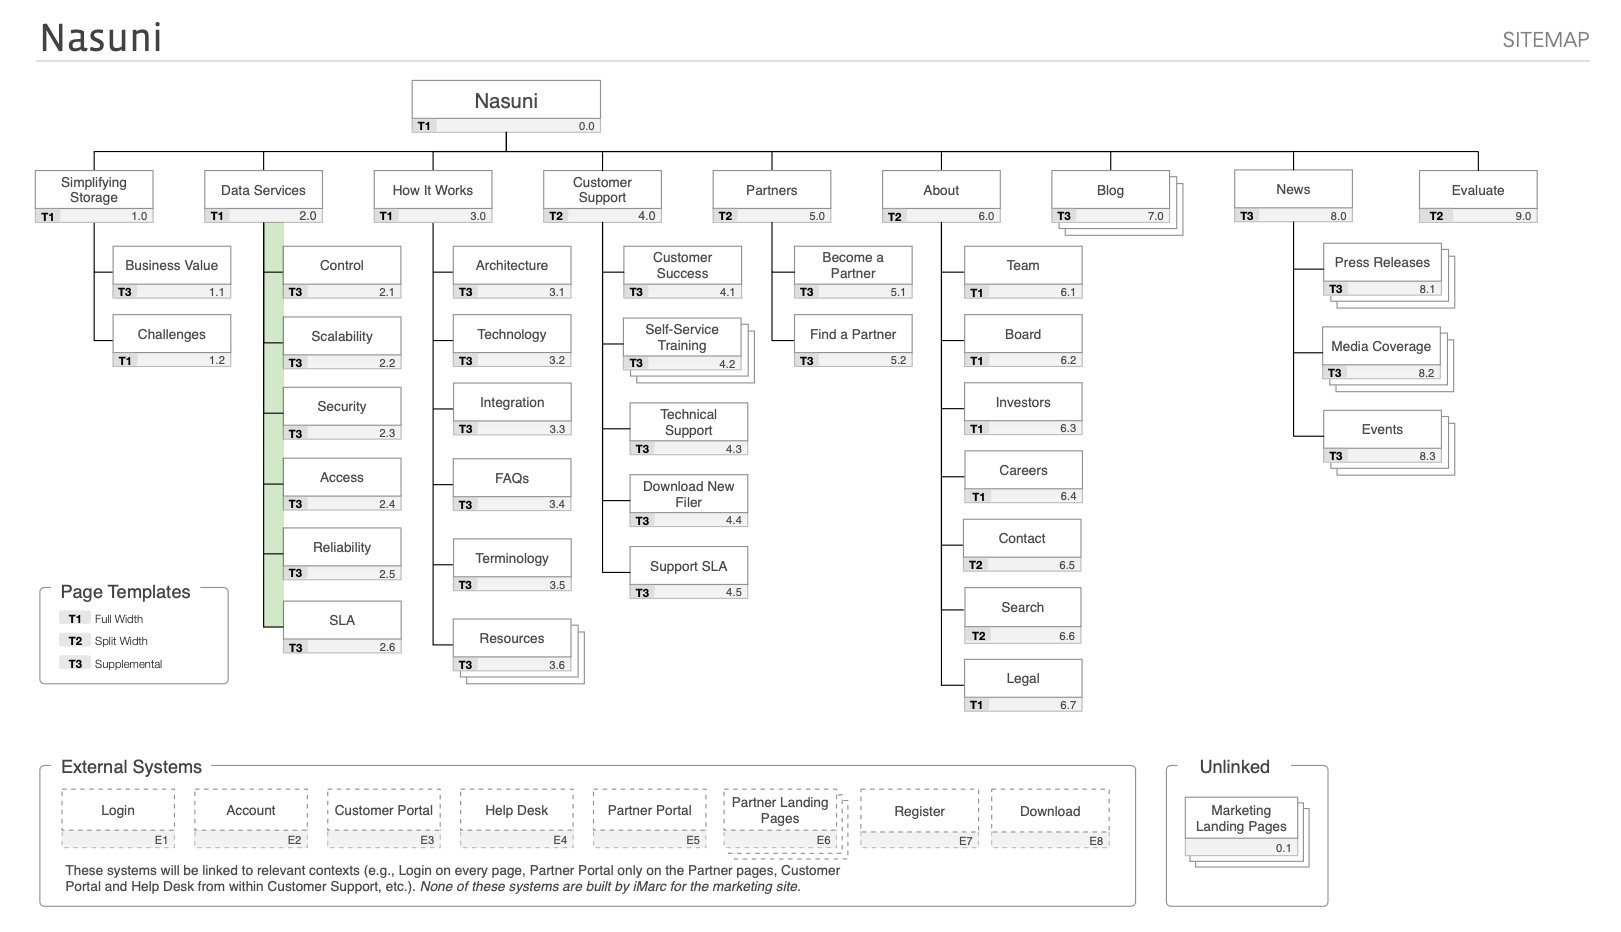
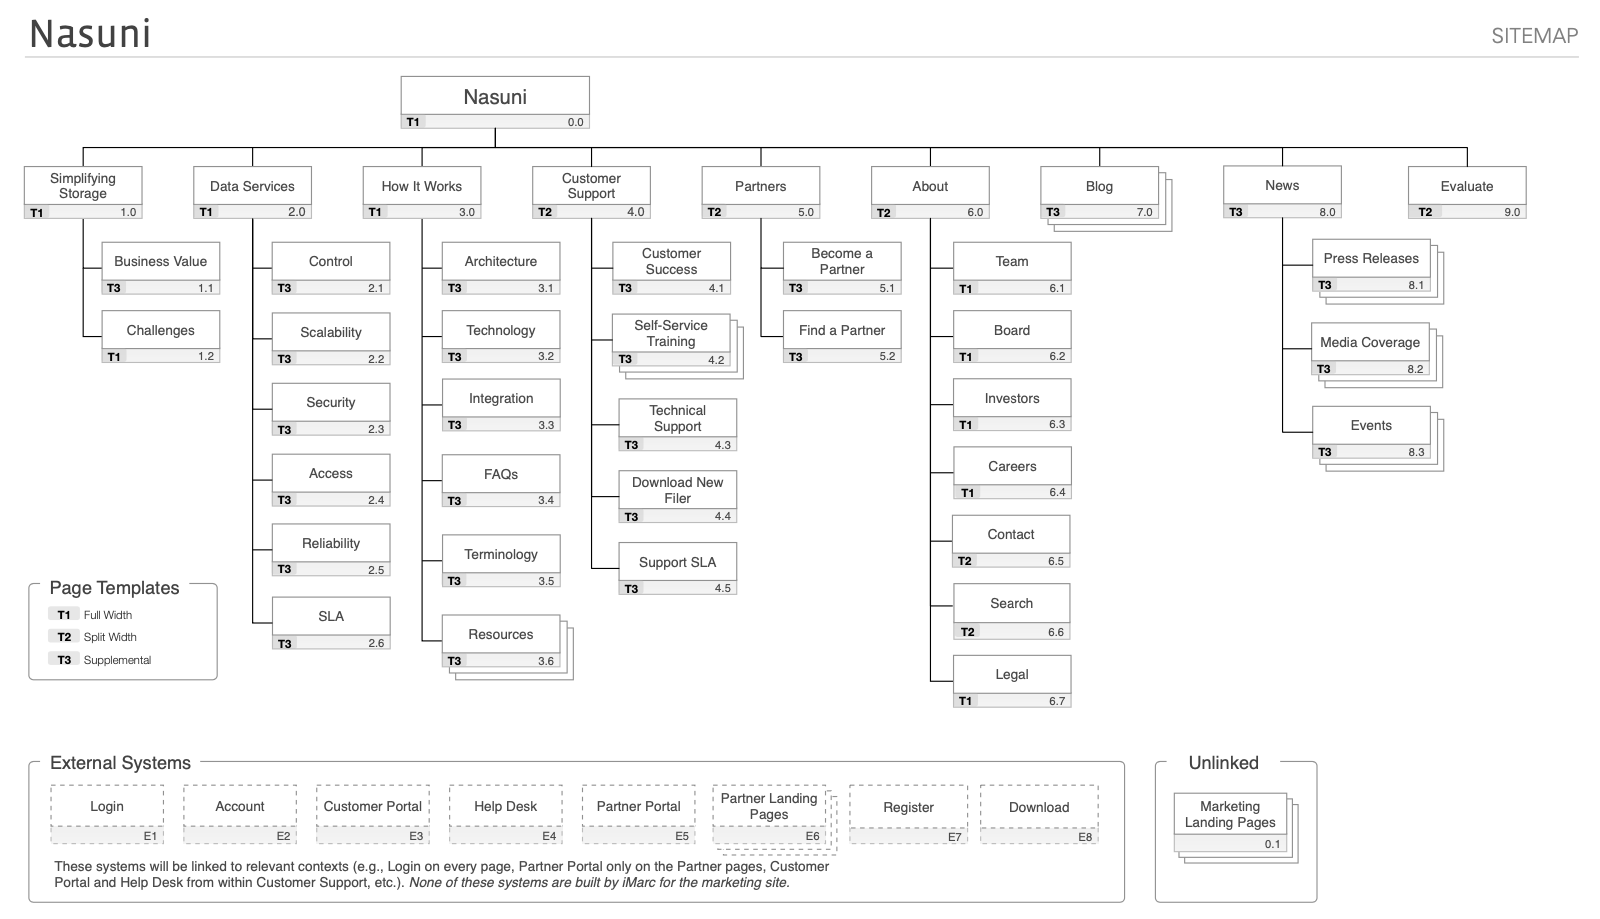
replace sitemap image, remove some items, add CD into experience section

diff --git a/index.html b/index.html
@@ -44,7 +44,7 @@
                                     </svg>
                                 </span>
                                 <span class="section__headingLabel">
-                                    Professional experience
+                                    Experience
                                 </span>
                             </h2>
                         </div>
@@ -125,6 +125,43 @@
                                 <div class="listing__items">
                                     <div class="listing__item">
                                         <h3 class="heading listing__heading">
+                                            <span>Cocktail Detective</span>
+                                            <a class="listing__headingLink" href="https://cocktail-detective.com">View project</a>
+                                        </h3>
+                                        <p class="listing__intro">
+                                            Peronal project! A Vue 3 / REST API web app. Discover what cocktails you can make based on ingredients you have.
+                                        </p>
+
+                                        <p><strong>Marcel's responsibilities</strong>:</p>
+
+                                        <ul class="listing__list">
+                                            <li class="listing__listItem">Responsive UI layout (mobile, tablet, desktop)</li>
+                                            <li class="listing__listItem">Querying endpoints for population in front-end user interface</li>
+                                            <li class="listing__listItem">Design produced via Figma</li>
+                                        </ul>
+
+                                        <div class="meta">
+                                            <div class="meta__item">Vue.js</div>
+                                            <div class="meta__item">Sass</div>
+                                        </div>
+
+                                        <div class="figures">
+                                            <img alt="" src="/img/cocktail-detective.png">
+                                        </div>
+
+                                        <div class="figures">
+                                            <div style="padding:62.5% 0 0 0;position:relative;">
+                                                <iframe width="800" height="500" src="https://www.figma.com/embed?embed_host=share&url=https%3A%2F%2Fwww.figma.com%2Ffile%2FQbiExB81KAUsozBhpdoEq5%2Fcocktail-detective-(Copy)%3Ftype%3Ddesign%26node-id%3D333%253A3195%26mode%3Ddesign%26t%3DKeFfvKZ00zODT8ni-1" allowfullscreen style="position:absolute;top:0;left:0;width:100%;height:100%;"></iframe>
+                                            </div>
+                                        </div>
+                                    </div>
+                                </div>
+                            </div>
+
+                            <div class="listing">
+                                <div class="listing__items">
+                                    <div class="listing__item">
+                                        <h3 class="heading listing__heading">
                                             <span>Nasuni</span>
                                             <a class="listing__headingLink">This iteration is offline</a>
                                         </h3>
@@ -150,77 +187,7 @@
                                                 <img alt="" src="/img/nasuni-sitemap.png">
                                             </div>
                                             <div>
-                                                <img alt="" src="/img/nasuni-discovery-legend.png">
-                                            </div>
-                                            <div>
                                                 <img alt="" src="/img/nasuni-wf-home.png">
-                                            </div>
-                                            <div>
-                                                <img alt="" src="/img/nasuni-wf-technology.png">
-                                            </div>
-                                        </div>
-                                    </div>
-                                </div>
-                            </div>
-                        </div>
-                    </div>
-                </div>
-            </section>
-
-            <!-- Misc fun -->
-            <section class="section">
-                <div class="container">
-                    <div class="grid section__grid">
-                        <div class="section__rail">
-                            <h2 class="section__heading">
-                                <span class="section__headingAsset">
-                                    <svg xmlns="http://www.w3.org/2000/svg"
-                                        width="16"
-                                        height="16"
-                                        viewBox="0 0 16 16"
-                                    >
-                                        <g fill="currentColor">
-                                            <path d="M16 4.5C16 5.92835 15.3345 7.20128 14.2967 8.02563L13 5L15.959 3.89036C15.986 4.08972 16 4.29323 16 4.5Z" /><path d="M11.5 9C12.1528 9 12.7733 8.86096 13.3332 8.61088L12 5.5L11 3L14.8265 1.46939C14.0035 0.566554 12.8179 0 11.5 0C9.01468 0 6.99996 2.01472 6.99996 4.5C6.99996 5.06048 7.10243 5.59702 7.28965 6.09193L1.17282 11.1893C0.00599647 12.1616 -0.0740367 13.926 0.999961 15C2.07396 16.074 3.83833 15.994 4.81068 14.8271L9.90803 8.71031C10.4029 8.89753 10.9395 9 11.5 9ZM10.208 4.63868L9.61215 5.53241L10.4209 5.26283C10.5222 5.22906 10.6338 5.26338 10.6986 5.34825C10.7635 5.43313 10.7672 5.54981 10.708 5.63868L10.1121 6.53241L10.9209 6.26283L11.079 6.73717L9.57902 7.23717C9.4777 7.27094 9.36611 7.23662 9.30128 7.15175C9.23646 7.06687 9.23271 6.95019 9.29195 6.86133L9.88778 5.96759L9.07902 6.23717C8.9777 6.27094 8.86611 6.23662 8.80128 6.15175C8.73646 6.06687 8.73271 5.95019 8.79195 5.86132L9.38778 4.96759L8.57902 5.23717L8.4209 4.76283L9.9209 4.26283C10.0222 4.22906 10.1338 4.26338 10.1986 4.34825C10.2635 4.43313 10.2672 4.54981 10.208 4.63868ZM2.99996 14C2.44768 14 1.99996 13.5523 1.99996 13C1.99996 12.4477 2.44768 12 2.99996 12C3.55225 12 3.99996 12.4477 3.99996 13C3.99996 13.5523 3.55225 14 2.99996 14Z" />
-                                        </g>
-                                    </svg>
-                                </span>
-                                <span class="section__headingLabel">
-                                    Miscellaneous fun
-                                </span>
-                            </h2>
-                        </div>
-                        <div class="section__main">
-                            <div class="listing">
-                                <div class="listing__items">
-                                    <div class="listing__item">
-                                        <h3 class="heading listing__heading">
-                                            <span>Cocktail Detective</span>
-                                            <a class="listing__headingLink" href="https://cocktail-detective.com">View project</a>
-                                        </h3>
-                                        <p class="listing__intro">
-                                            A Vue 3 / REST API web app. Discover what cocktails you can make based on ingredients you have.
-                                        </p>
-
-                                        <p><strong>Marcel's responsibilities</strong>:</p>
-
-                                        <ul class="listing__list">
-                                            <li class="listing__listItem">Responsive UI layout (mobile, tablet, desktop)</li>
-                                            <li class="listing__listItem">Querying endpoints for population in front-end user interface</li>
-                                            <li class="listing__listItem">Design produced via Figma</li>
-                                        </ul>
-
-                                        <div class="meta">
-                                            <div class="meta__item">Vue.js</div>
-                                            <div class="meta__item">Sass</div>
-                                        </div>
-
-                                        <div class="figures">
-                                            <img alt="" src="/img/cocktail-detective.png">
-                                        </div>
-
-                                        <div class="figures">
-                                            <div style="padding:62.5% 0 0 0;position:relative;">
-                                                <iframe width="800" height="500" src="https://www.figma.com/embed?embed_host=share&url=https%3A%2F%2Fwww.figma.com%2Ffile%2FQbiExB81KAUsozBhpdoEq5%2Fcocktail-detective-(Copy)%3Ftype%3Ddesign%26node-id%3D333%253A3195%26mode%3Ddesign%26t%3DKeFfvKZ00zODT8ni-1" allowfullscreen style="position:absolute;top:0;left:0;width:100%;height:100%;"></iframe>
                                             </div>
                                         </div>
                                     </div>
